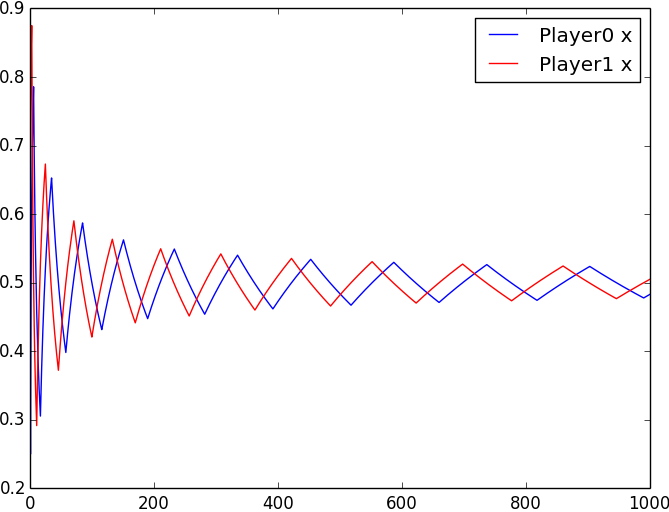
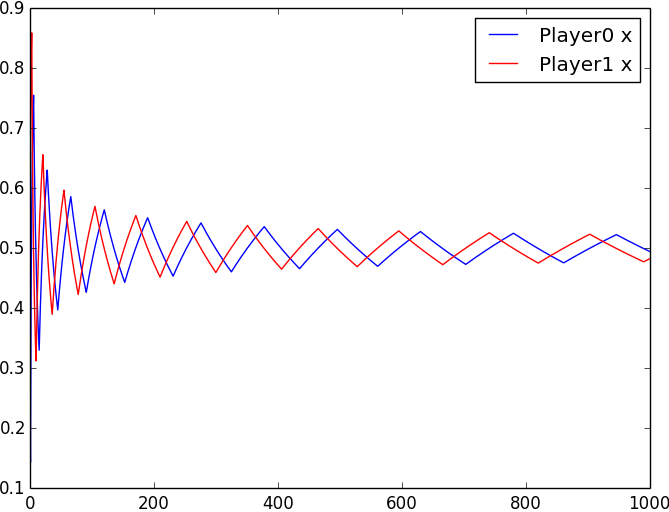
Error fixed

diff --git a/Ficplay.py b/Ficplay.py
@@ -10,8 +10,8 @@ fig, ax = plt.subplots()
 players = [0,1] # not used yet
 
 trials = 51
-current_x0 = 0.5
-current_x1 = 0.5
+current_x0 = random.uniform(0,1)
+current_x1 = random.uniform(0,1)
 
 # setting up the payoff function
 
